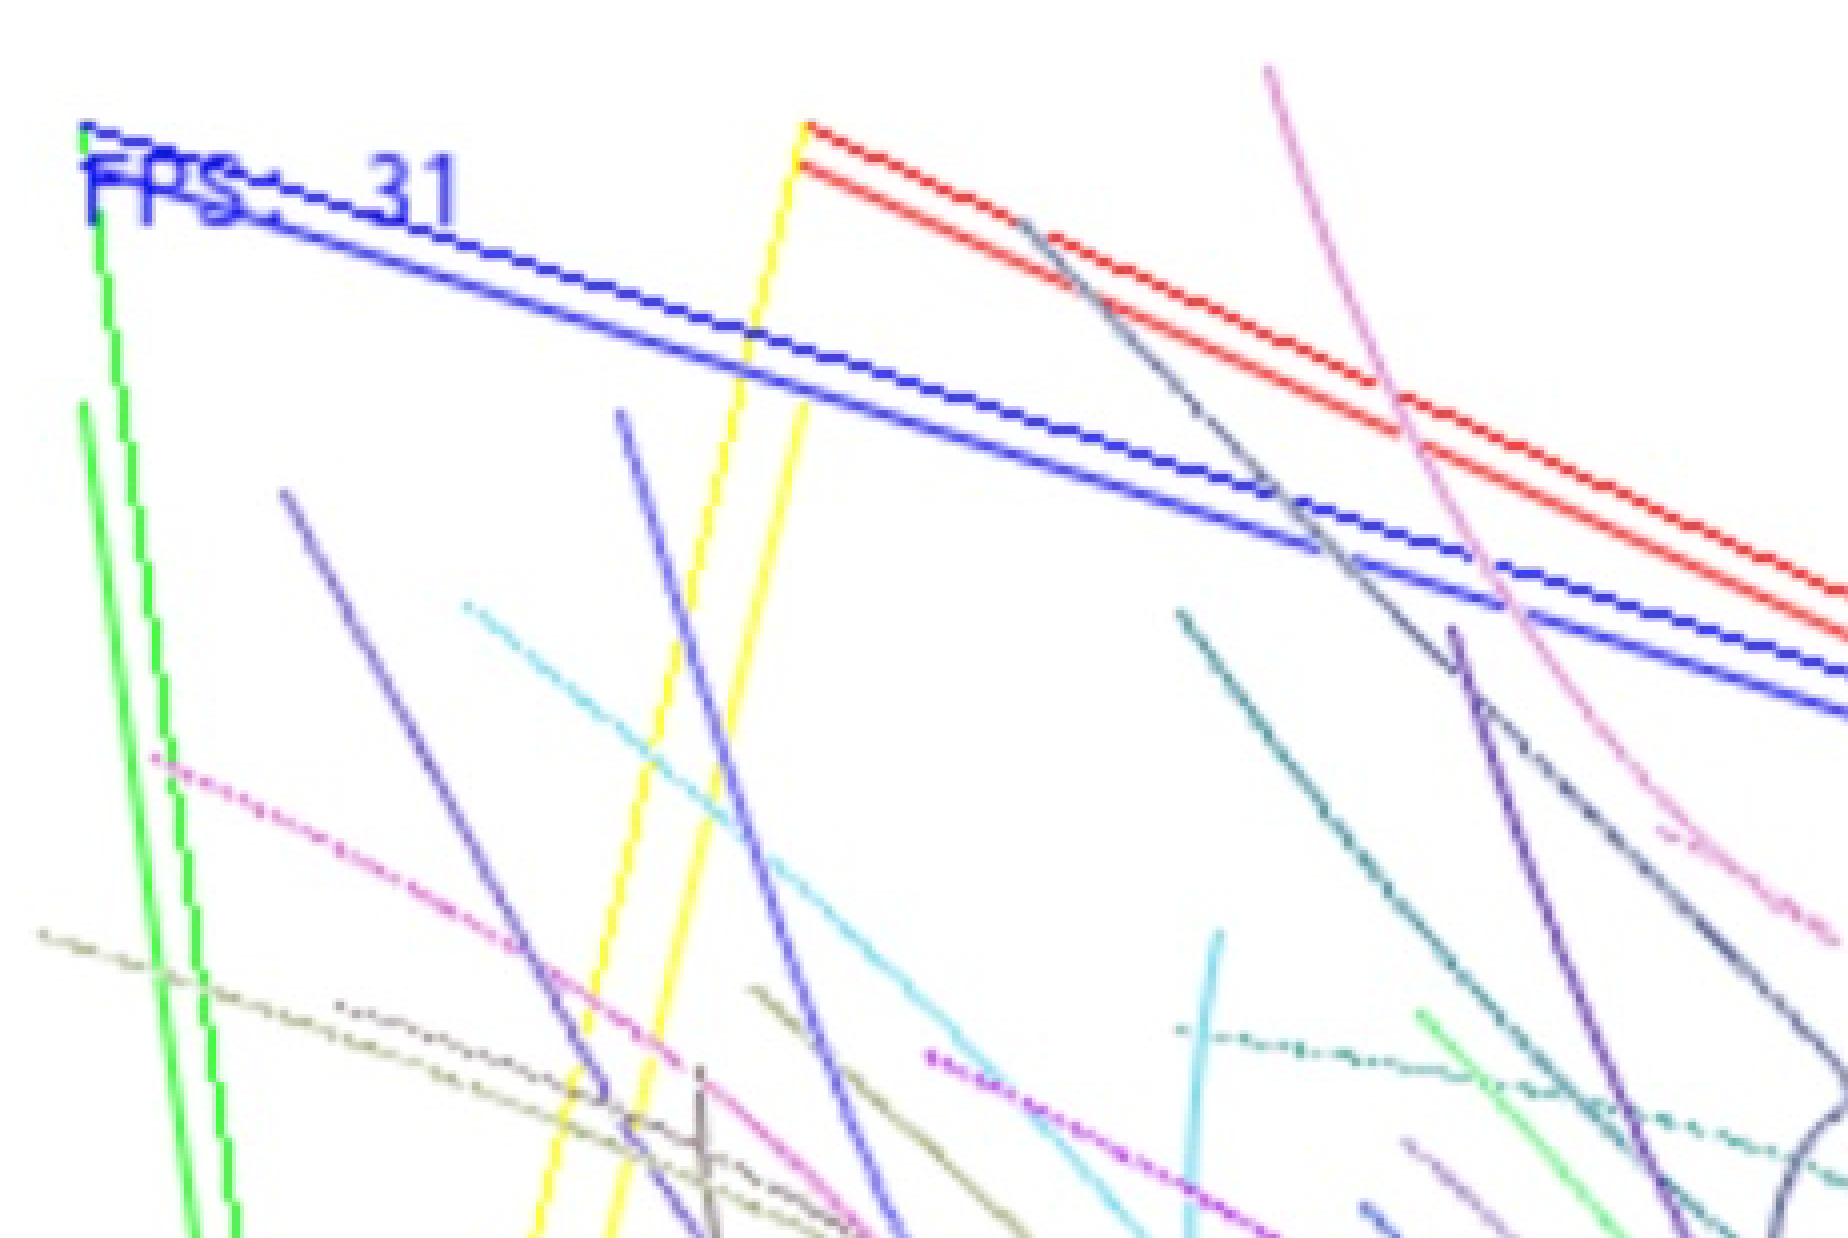
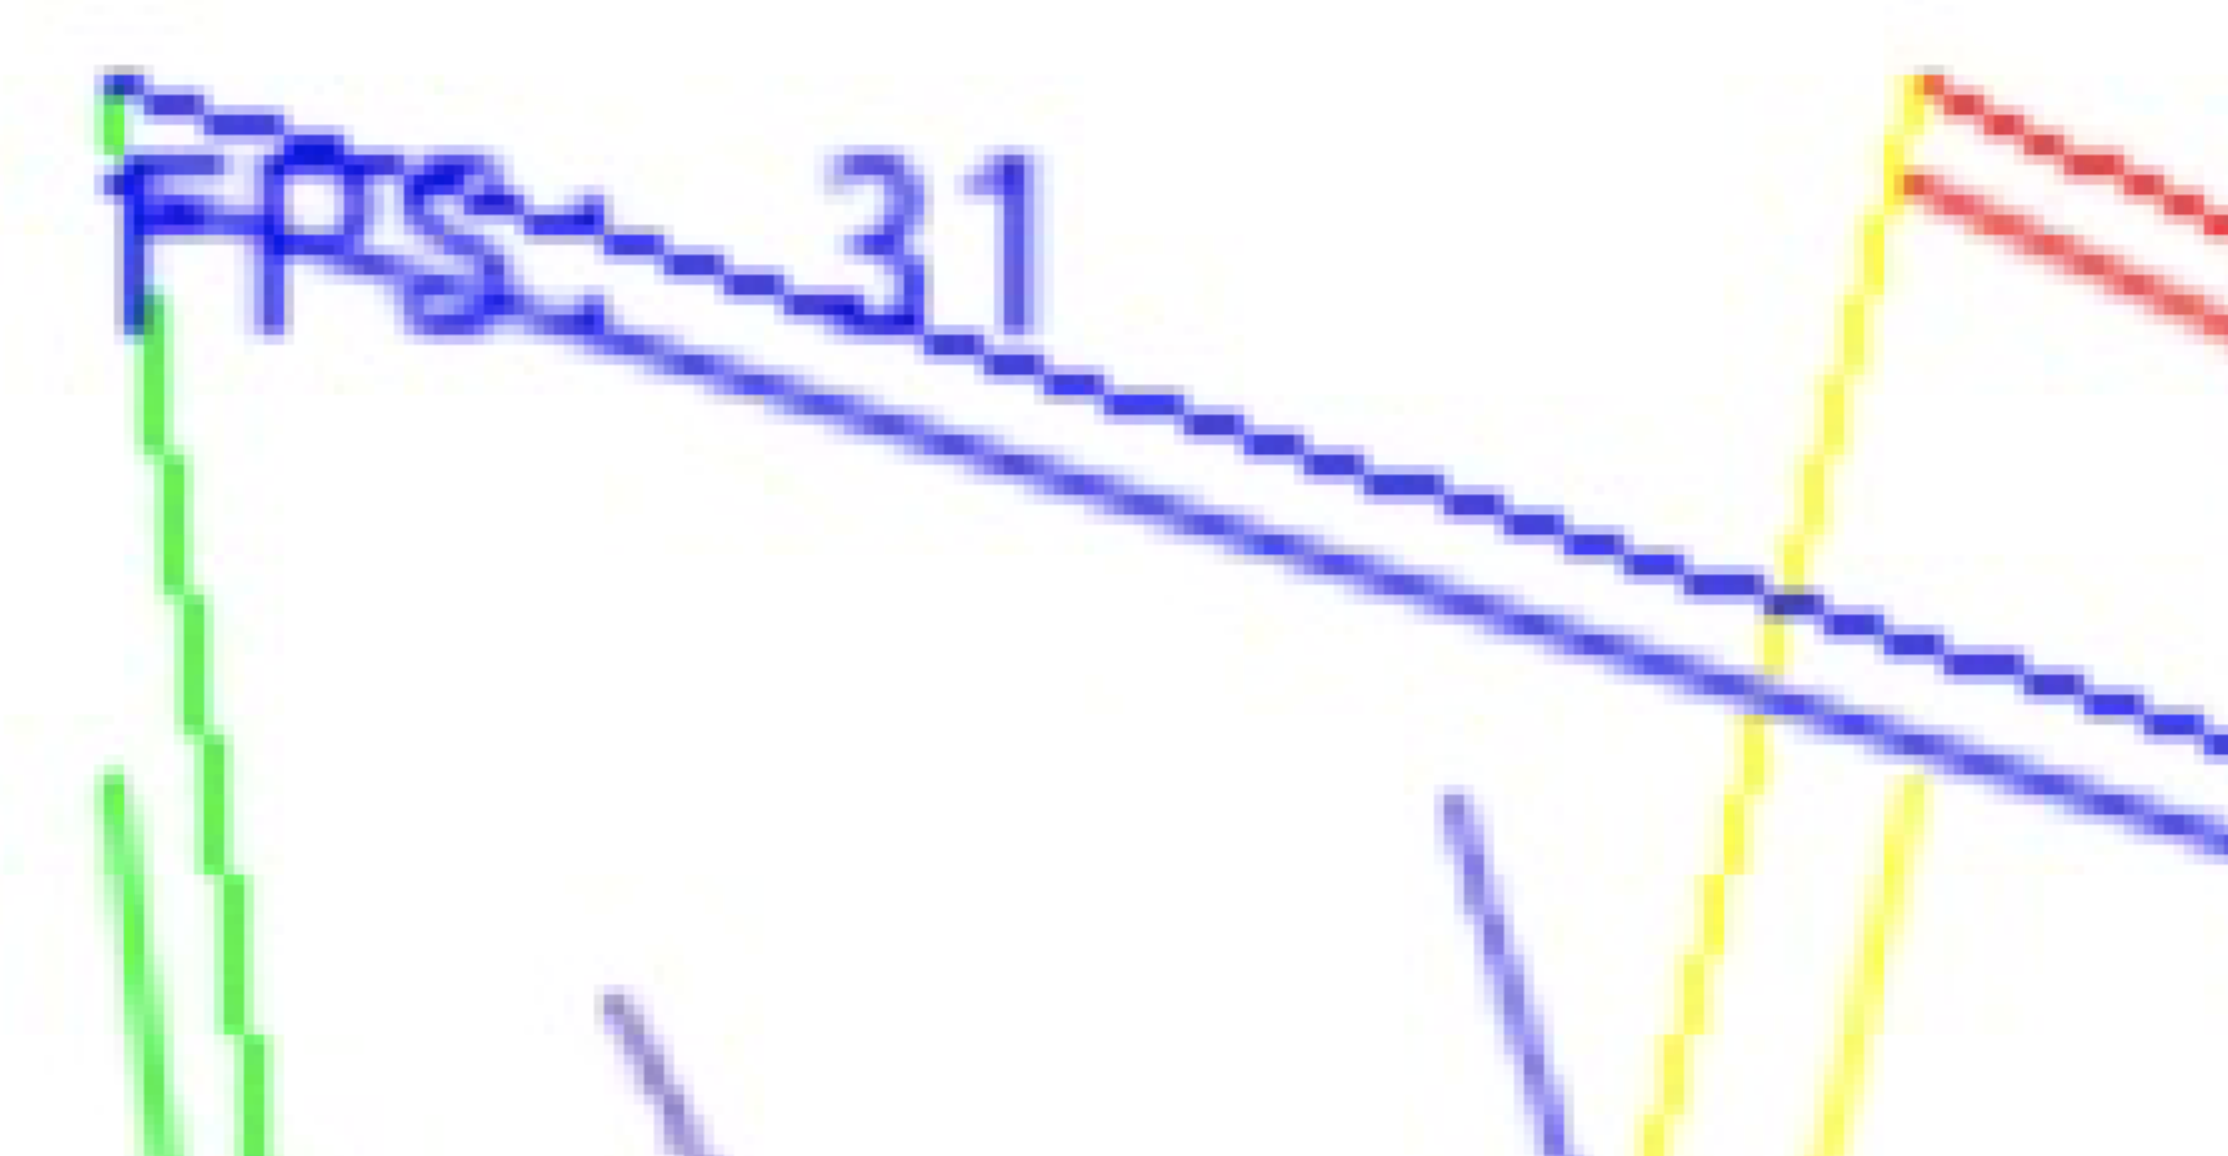
documentation improved

diff --git a/README.md b/README.md
@@ -12,7 +12,8 @@ written in [Futhark](http://futhark-lang.org) and builds on the
 The implementation also supports antialiased drawing of linear bezier
 curves (i.e., lines) with partly support for antialiased drawing of
 cubic bezier curves; we still need to perform some calculations on the
-derivative, which should be easy to do; see the screen capture below.
+derivative, which should be easy to do; see the screen capture below,
+which demonstrates how antialiasing improves the visual appearance.
 
 <img src="images/antialiasing.png" border="2" width="250" align="right">
 
